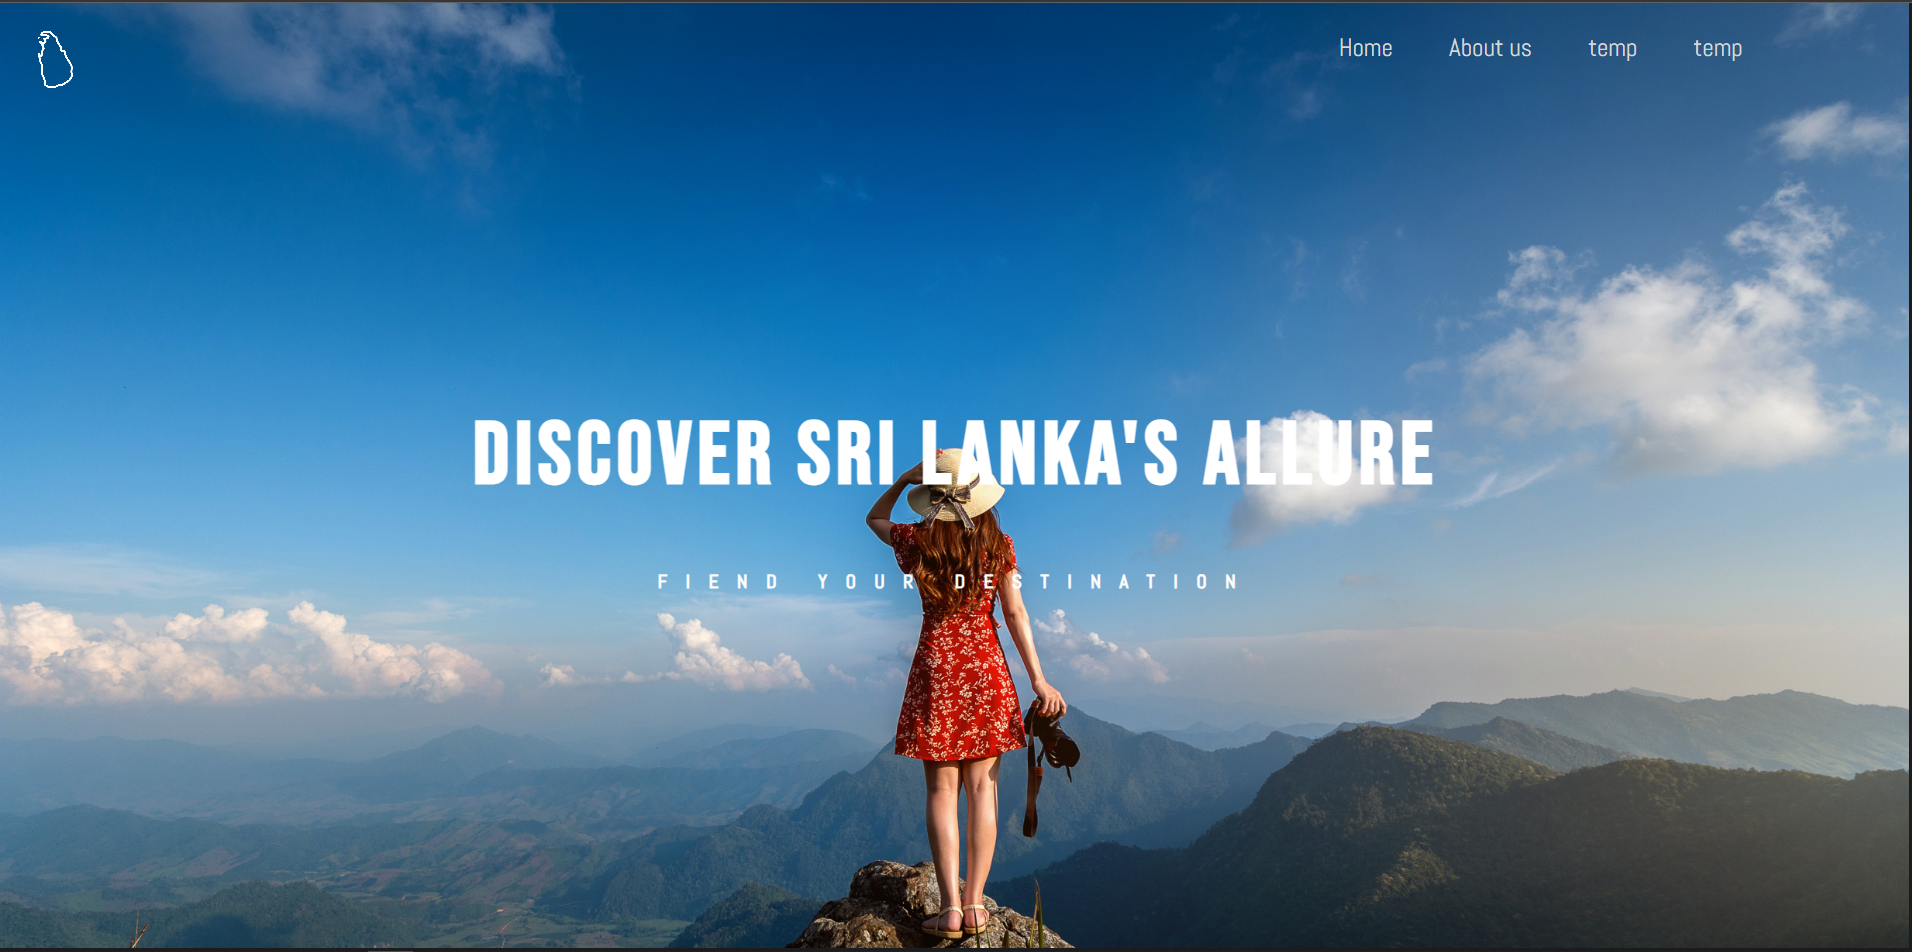
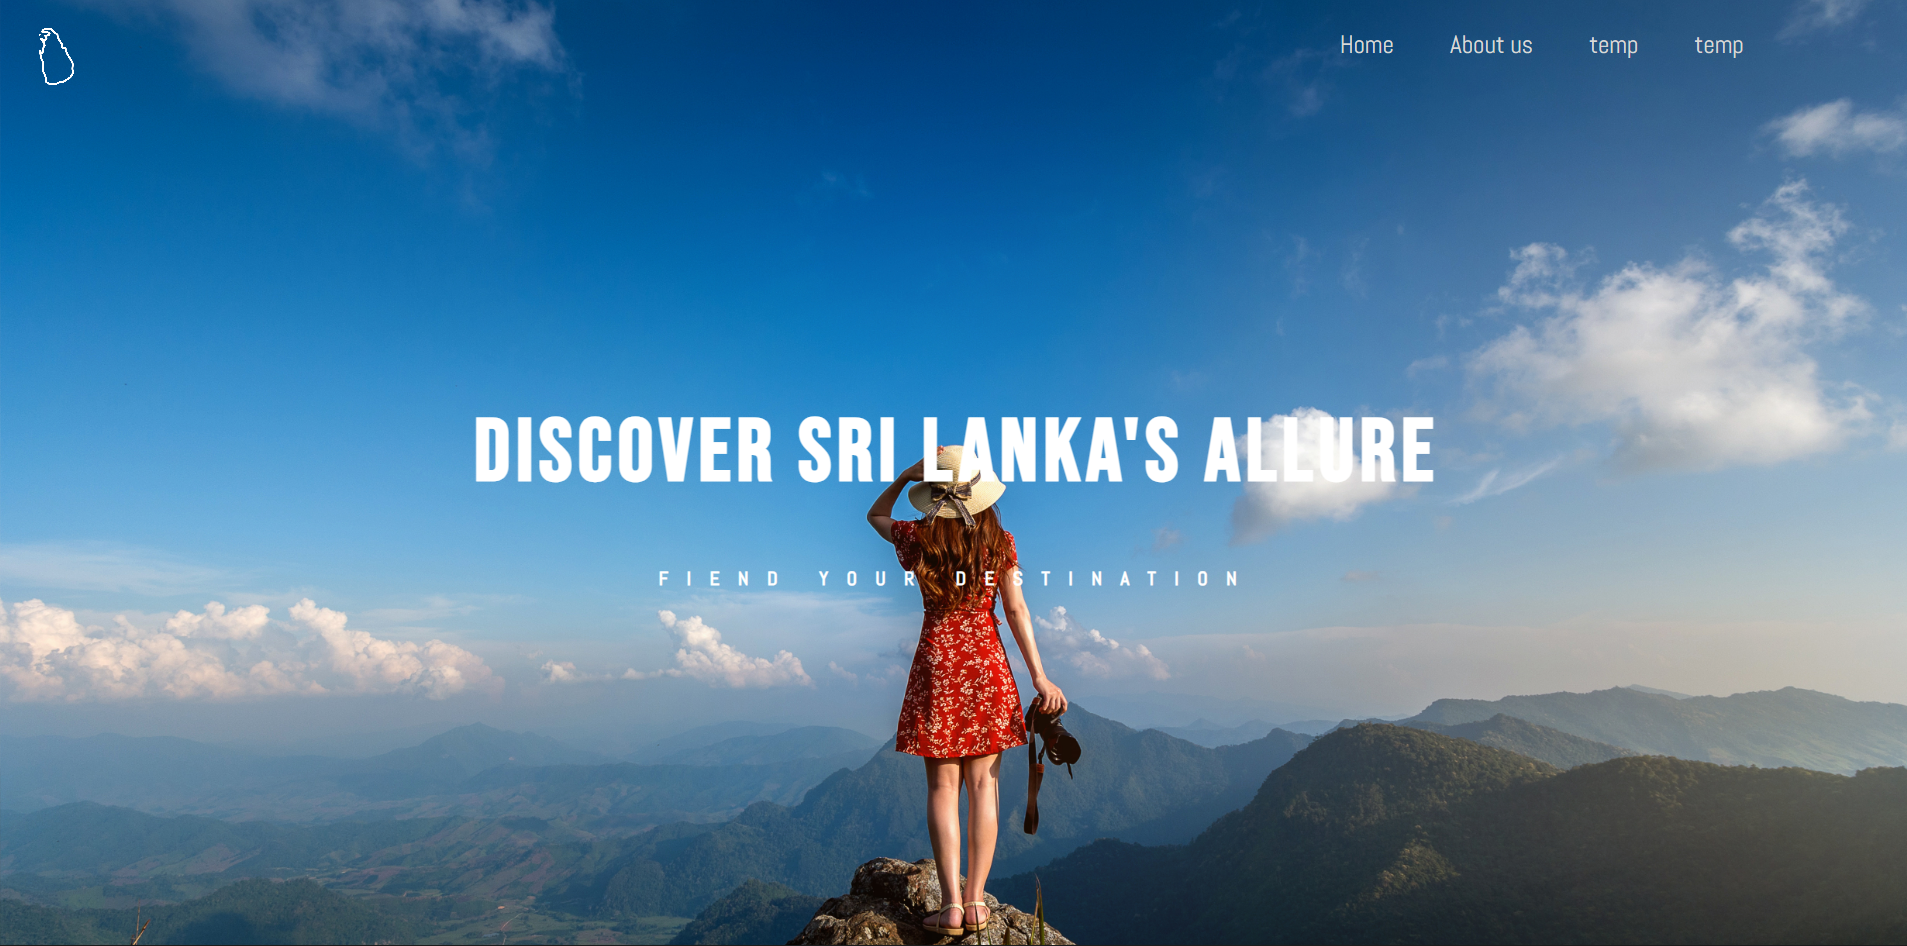
project updated

diff --git a/assest/CSS/animation.css b/assest/CSS/animation.css
@@ -2,7 +2,7 @@ body>section:nth-child(1)>div>p{
     position: relative;
     top: 97vh;
     right: 590px;
-    /*animation-name: animation1;*/
+    animation-name: animation1;
     animation-duration: 30s;
     animation-iteration-count: infinite;
     font-size: 10px;
@@ -122,7 +122,7 @@ main>section:nth-child(5)>aside:nth-child(4)>img{
     width: 40px;
     height: 40px;
     position: relative;
-    /*animation-name:skills ;*/
+    animation-name:skills ;
     animation-iteration-count: infinite;
     animation-duration: 6s;
     opacity: 20%;
@@ -216,11 +216,35 @@ main>section:nth-child(5)>aside:nth-child(4)>img:nth-child(13){
 
 
 
+                            /*website button animation*/
 
 
 
+main>section:nth-child(15)>a>button {
+    animation-iteration-count: infinite;
+    animation-duration: 1s;
+    animation-name: buttonAnimation;
 
 
+}
+
+
+@keyframes buttonAnimation {
+
+    0%{
+        opacity: 100%;
+    }
+    50%{
+        opacity: 70%;
+
+    }
+    100%{
+        opacity: 40%  ;
+
+    }
+
+
+}
 
 
 

diff --git a/assest/CSS/Css.css b/assest/CSS/Css.css
@@ -878,7 +878,7 @@ main>section:nth-child(9)>div:nth-child(1)>aside>div {
     width: 100%;
     height: calc(100%/3);
     margin: 15px;
-    /*animation-name: mainAnimation;*/
+    animation-name: mainAnimation;
     animation-duration: 10s;
     animation-iteration-count: infinite;
     animation-direction: alternate;
@@ -1131,6 +1131,18 @@ main>section:nth-child(15)>div{
     height: 95vh;
     position: relative;
 
+
+}
+
+main>section:nth-child(15)>a>button {
+    background: transparent;
+    width: 200px;
+    height: 50px;
+    border: solid white 3px;
+    font-family: teko;
+    font-size: 25px;
+    position: relative;
+    bottom: 70vh;
 
 }
 

diff --git a/index.html b/index.html
@@ -656,6 +656,9 @@
         <section>
             <h1>MY WEBSITE</h1>
             <div></div>
+            <a href="https://dasunthamsh.github.io/Tuwarisam-Web/" target="_blank"><button>VIEW WEBSITE</button></a>
+
+
         </section>
 
     </main>
